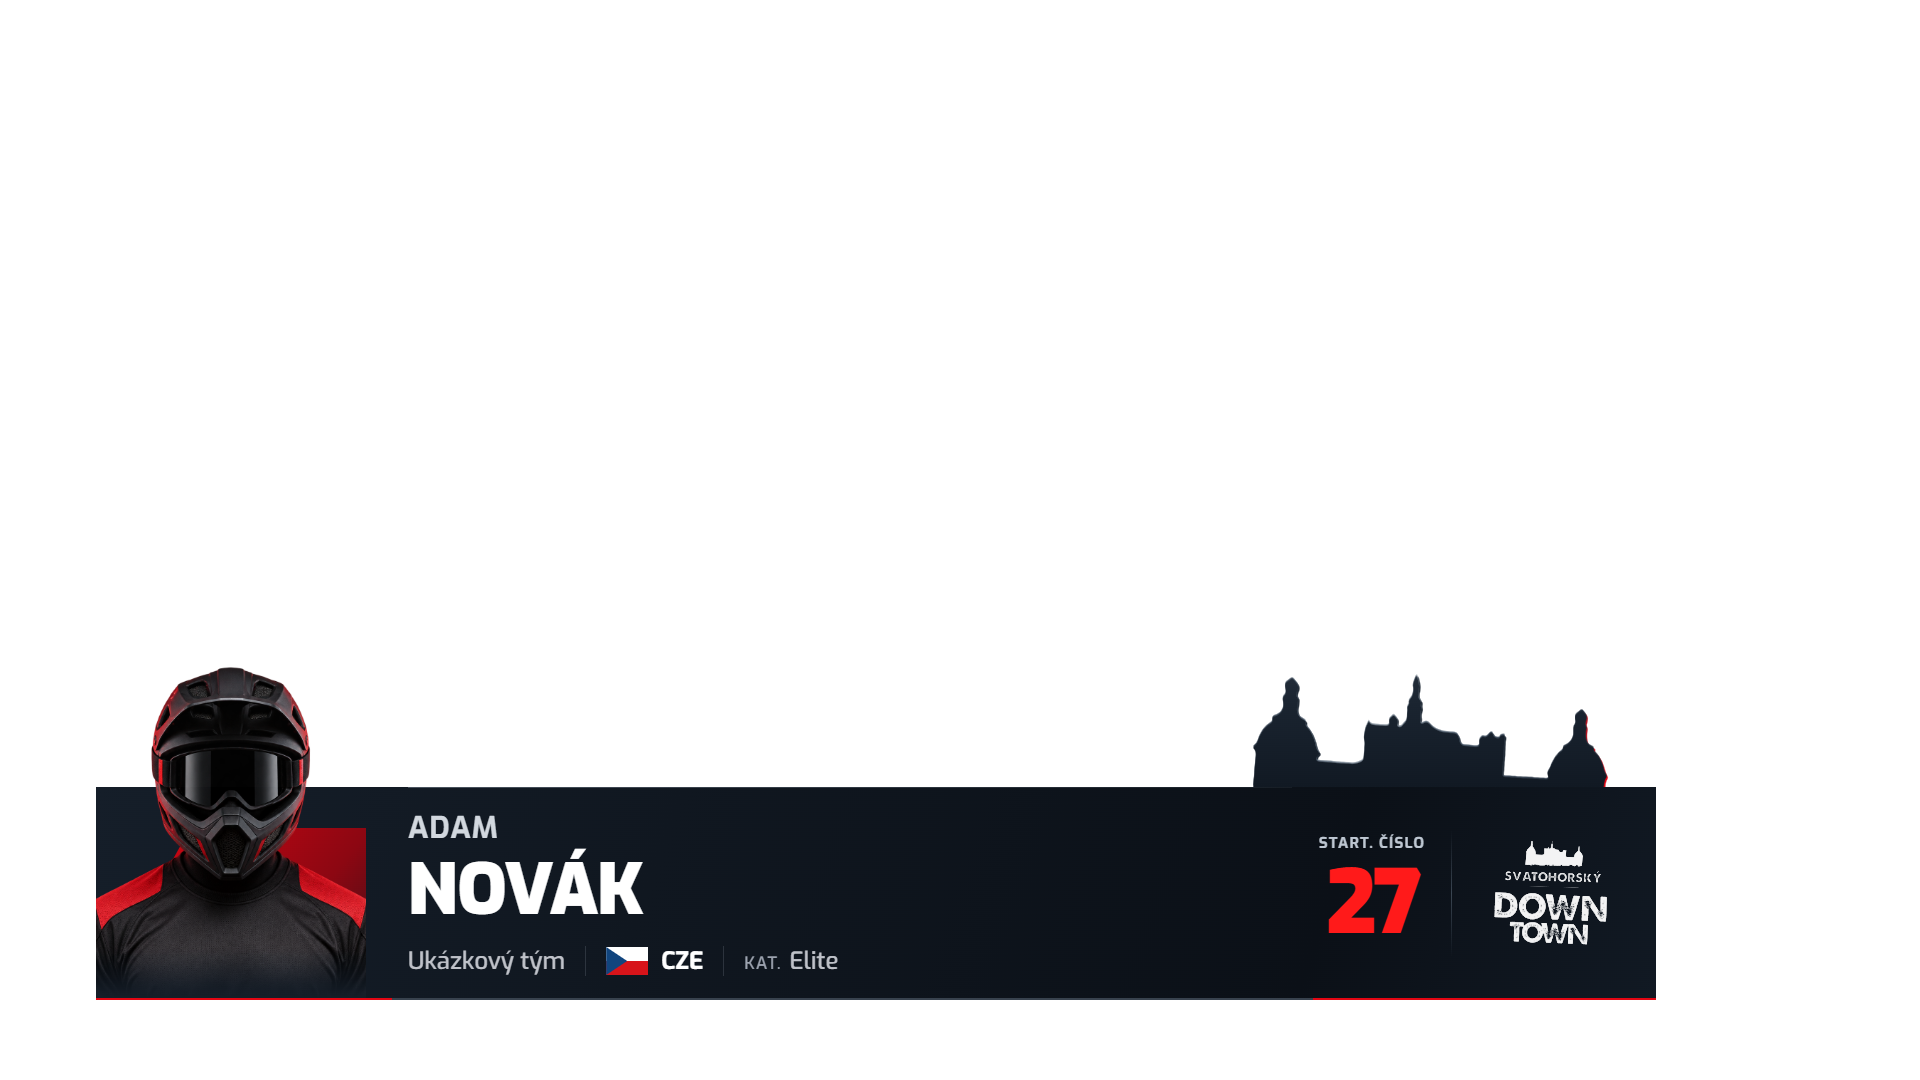
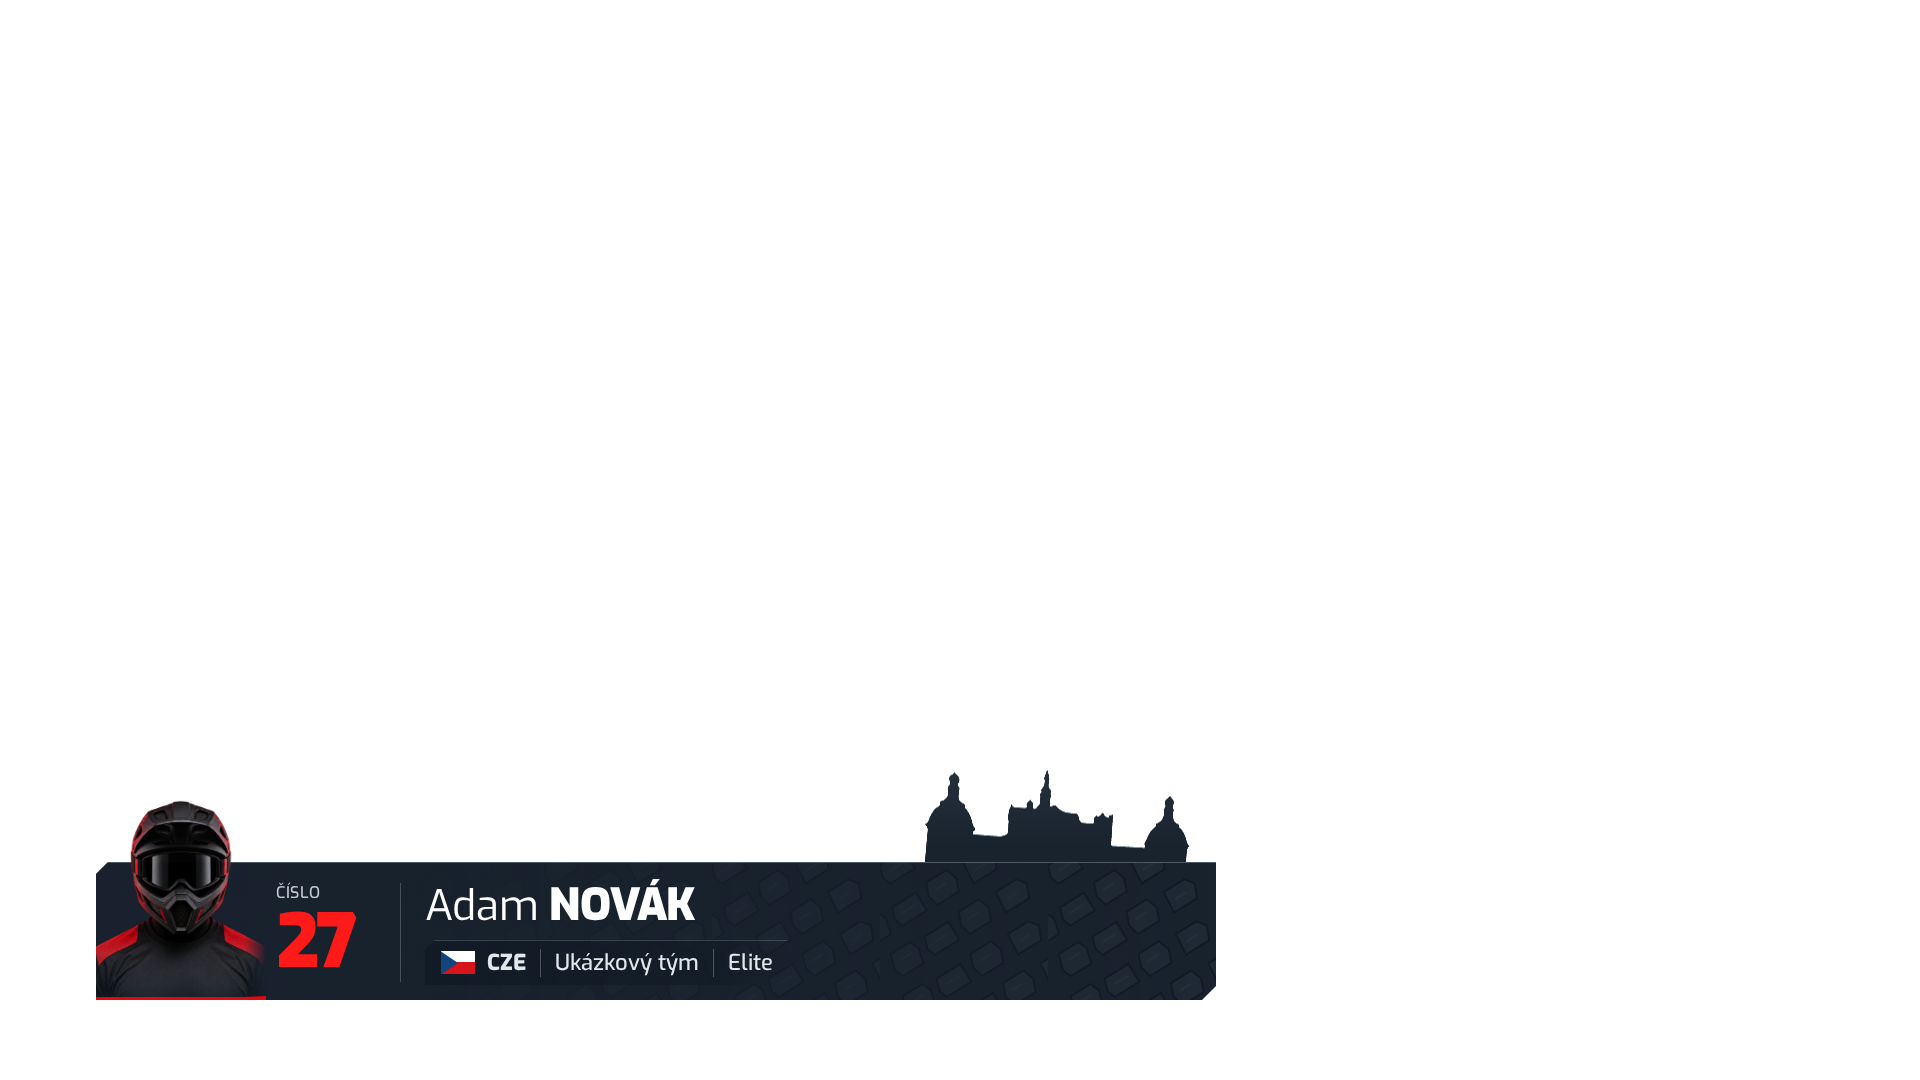
Refresh all 06.4 previews and validation report from successful main build

Changed region(s): [[0.0312, 0.6111, 0.875, 0.9472]]

diff --git a/README.md b/README.md
@@ -2,7 +2,7 @@
 
 Repozitář obsahuje zadání, společný design systém a pracovní grafické výstupy pro televizní přenos a velkoplošné obrazovky závodu **Svatohorský Downtown Příbram (SVDT)**.
 
-Projekt je ve fázi návrhu. Aktuální grafiky jsou vizuální studie, nikoliv schválené vysílací šablony.
+Karta jezdce G02 má schválený vizuální směr 06.4 zapracovaný do zdrojového kódu. Napojení dat a ostré odbavení zůstávají k ověření s režií.
 
 ## Aktuální struktura
 
@@ -16,7 +16,7 @@ Složky pro další grafické části budou vytvořeny až při zahájení jejic
 
 ## Aktuální stav
 
-- G02 — karta jezdce: existuje interaktivní vizuální studie ve variantách A a B.
+- G02 — karta jezdce: aktuální verze **06.4**, vodorovná a rohová karta, obě s portrétem i bez něj. Celý reliéf, jemná MTB stopa a žádné samostatné bílé logo.
 - G01 a G03–G07: jsou vymezeny v zadání, ale zatím nemají vlastní implementaci.
 - G08 — ztráta nebo zisk na úsecích: volitelné rozšíření závislé na dostupnosti mezičasů.
 - Produkční formát, napojení časomíry a způsob odbavení musí být potvrzeny s režií.
@@ -26,6 +26,8 @@ Složky pro další grafické části budou vytvořeny až při zahájení jejic
 1. Stáhněte nebo naklonujte repozitář.
 2. Otevřete `karta-jezdce/index.html` v aktuálním Chrome nebo Edge.
 3. Náhled funguje lokálně bez serveru a bez připojení k internetu.
+
+Všechny čtyři varianty najdete v [přehledové kompozici](karta-jezdce/nahledy/SVDT-srovnani-A-B.png) nebo v `karta-jezdce/srovnani.html`.
 
 Podrobnosti, použité podklady a kontrolní scénáře jsou popsány v [dokumentaci karty jezdce](karta-jezdce/README.md).
 
